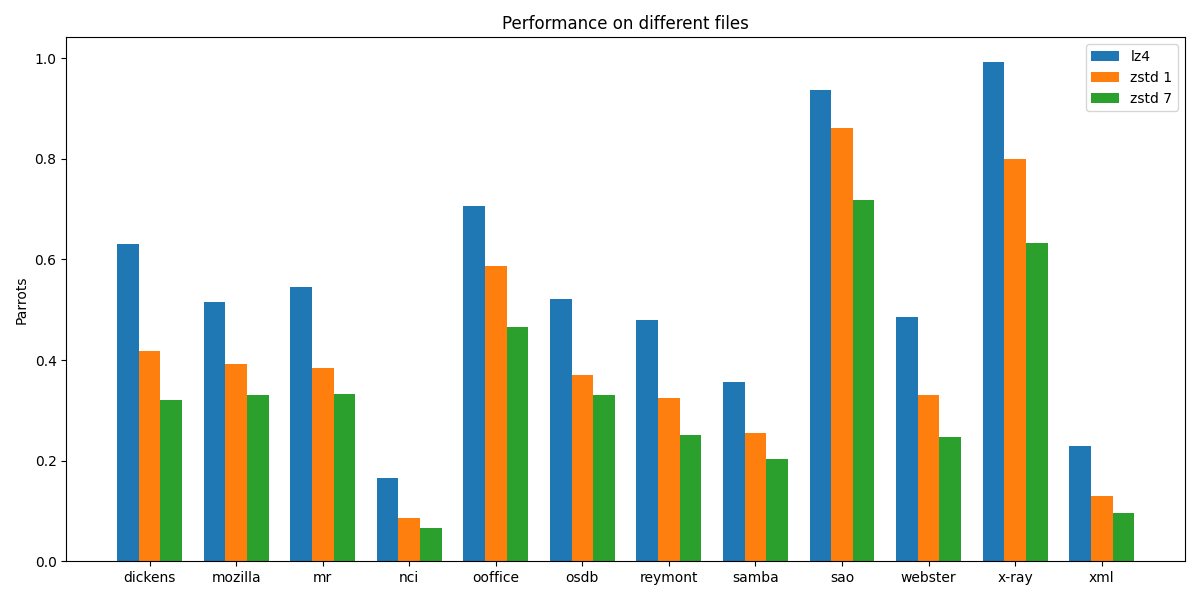
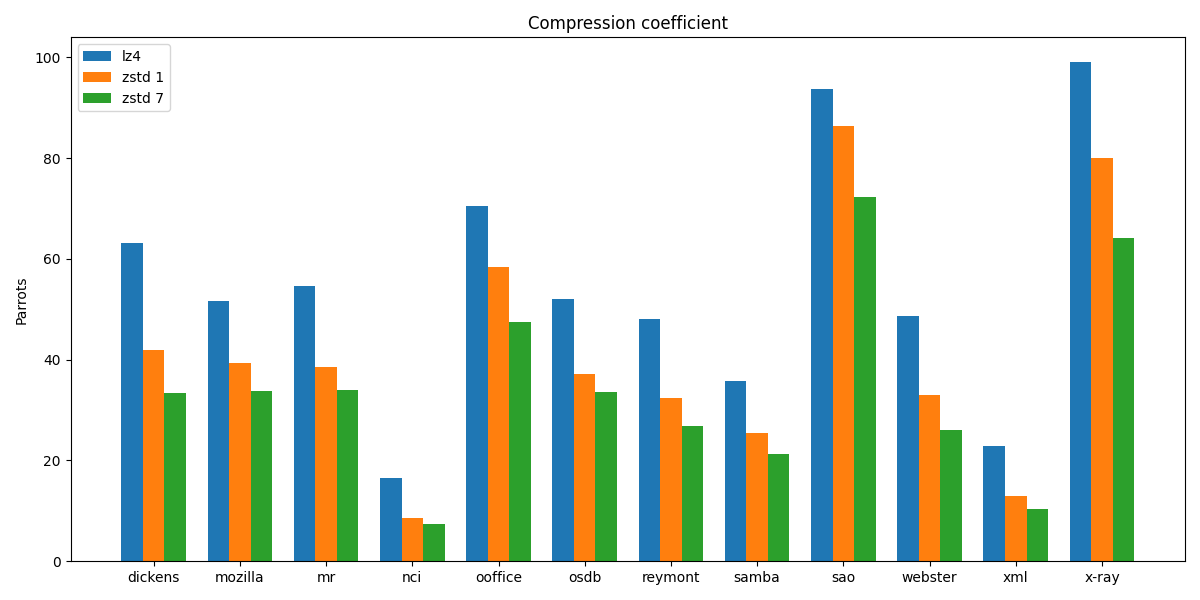
Update plots

diff --git a/scripts/make_plots.py b/scripts/make_plots.py
@@ -6,7 +6,7 @@ import re
 sns.color_palette('deep')
 
 
-def build_from_file(filename):
+def build_from_file(filename, units, test_name):
     labels = ['lz4', 'zstd 1', 'zstd 7']
     values = [[], [], []]
     files = []
@@ -14,6 +14,7 @@ def build_from_file(filename):
         for line in f:
             a = re.split(r'[ \n]', line)
             files.append(a.pop(0))
+            a.pop(-1)
             a.pop(-1)
             values1 = list(map(float, a))
             for i in range(len(values1)):
@@ -24,14 +25,15 @@ def build_from_file(filename):
     fig.set_size_inches(12, 6)
     for i in range(len(labels)):
         ax.bar(x - width * len(labels) / 2 + width / 2 + width * i, values[i], width, label=labels[i])
-    ax.set_ylabel('Parrots')
-    ax.set_title('Performance on different files')
+    ax.set_ylabel(units)
+    ax.set_title(test_name)
     ax.set_xticks(x, files)
     ax.legend()
     fig.tight_layout()
-    plt.show()
+    #plt.show()
     fig.savefig(filename.replace(".txt", "") + "_plot.png")
 
 
-build_from_file("../times.txt")
-build_from_file("../coefs.txt")
+build_from_file("../times.txt", "Microseconds", "Compression time")
+build_from_file("../coefs.txt", "Parrots", "Compression coefficient")
+build_from_file("../speed.txt", "MB/s", "Compression speed")
